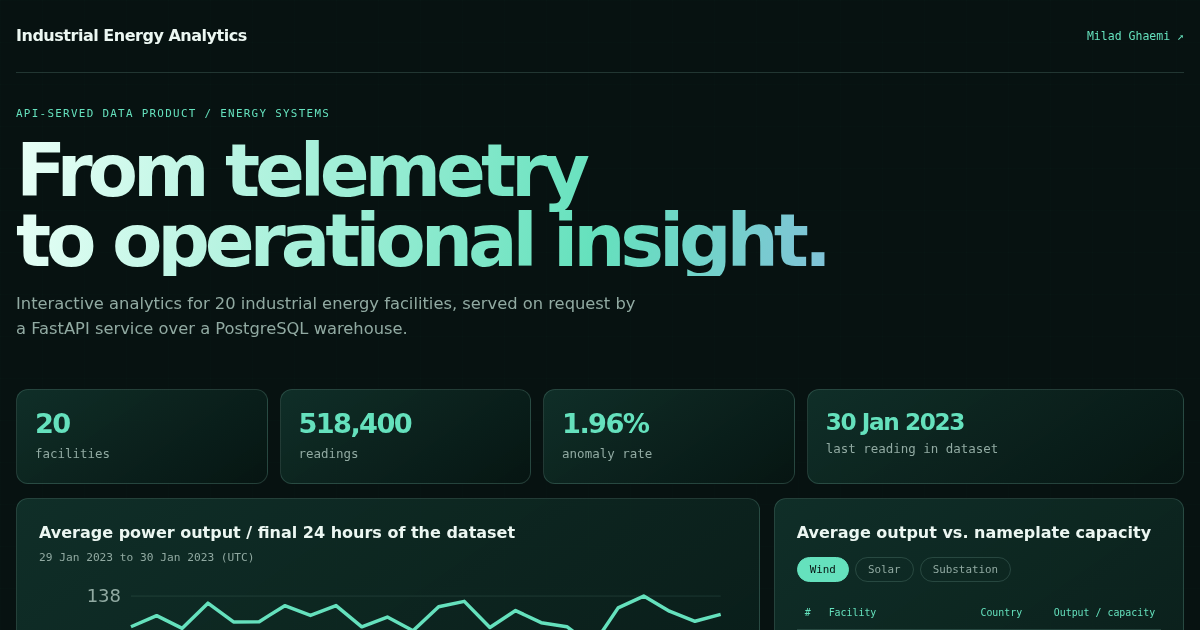
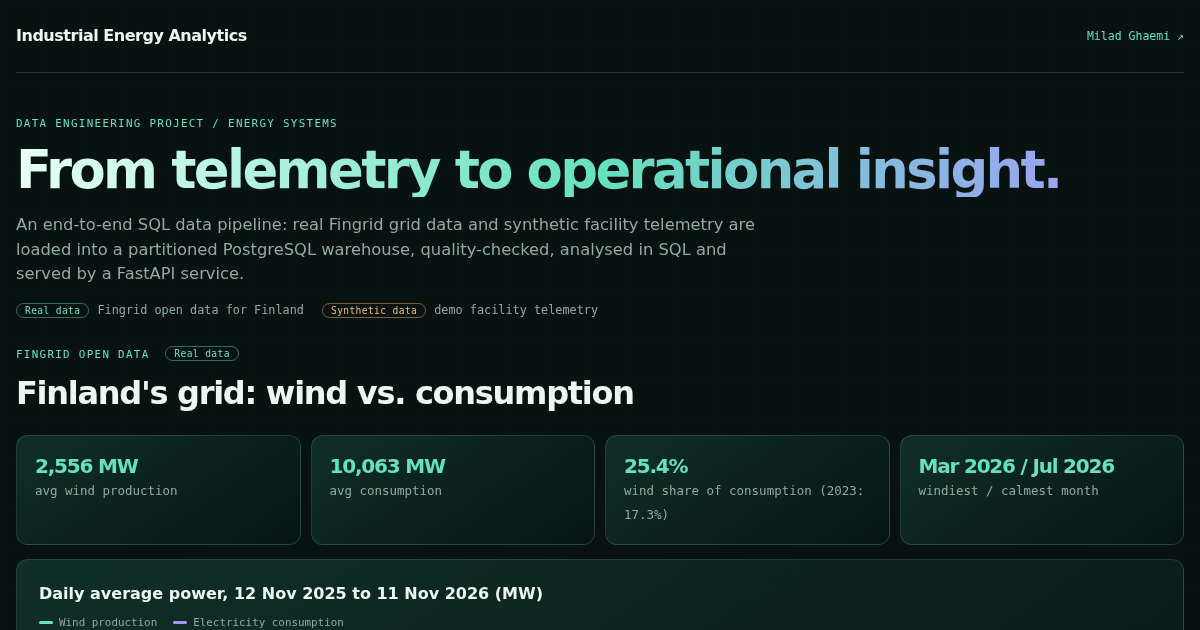
Redesign the dashboard: compact hero, real data first, sticky navigation
- Compact hero with a one-line project summary and a real/synthetic legend,
  so the first screen shows real Fingrid KPIs.
- New order: real Fingrid grid data, pipeline overview, synthetic warehouse
  demo (with its own data note and API status), anomalies, validation.
- Real / synthetic source badges on every section; sticky section menu.
- Footer credits Fingrid Open Data; Open Graph image regenerated.

diff --git a/docs/index.html b/docs/index.html
@@ -13,52 +13,33 @@
   <meta property="og:image" content="https://miladgk.github.io/industrial-energy-sql-pipeline/assets/og-image.png">
   <meta property="og:image:width" content="1200">
   <meta property="og:image:height" content="630">
-  <meta property="og:image:alt" content="Industrial Energy Analytics dashboard: KPIs, power output trend and facility table">
+  <meta property="og:image:alt" content="Industrial Energy Analytics: SQL data pipeline dashboard with real Fingrid grid data for Finland">
   <meta name="twitter:card" content="summary_large_image">
   <link rel="icon" type="image/svg+xml" href="assets/favicon.svg">
   <style>
     :root{--bg:#071211;--surface:#102a25;--surface-2:#0b1d1a;--ink:#ecf7f2;--muted:#91aaa2;--line:rgba(147,201,187,.2);--accent:#65e1bd;--warn:#f4bd73;--sans:system-ui,-apple-system,BlinkMacSystemFont,"Segoe UI",sans-serif;--mono:"DM Mono",ui-monospace,monospace}
-    *{box-sizing:border-box}[hidden]{display:none!important}body{margin:0;background:var(--bg);color:var(--ink);font-family:var(--sans);line-height:1.5}body:before{content:"";position:fixed;inset:0;pointer-events:none;opacity:.35;background-image:linear-gradient(rgba(101,225,189,.04) 1px,transparent 1px),linear-gradient(90deg,rgba(101,225,189,.04) 1px,transparent 1px);background-size:42px 42px}.shell{width:min(1180px,calc(100% - 32px));margin:auto;position:relative}.topbar{display:flex;justify-content:space-between;align-items:center;padding:24px 0;border-bottom:1px solid var(--line)}.brand{font-weight:800;letter-spacing:-.03em}.back{color:var(--accent);font:500 .72rem var(--mono);text-decoration:none}.eyebrow{color:var(--accent);font:500 .68rem var(--mono);letter-spacing:.12em;text-transform:uppercase}.hero{padding:72px 0 42px}.hero h1{font-size:clamp(2.8rem,7vw,6.2rem);line-height:.95;letter-spacing:-.07em;margin:16px 0;background:linear-gradient(100deg,#e9fff7,var(--accent),#a994ff);-webkit-background-clip:text;background-clip:text;color:transparent}.hero p{max-width:620px;color:var(--muted);font-size:1.02rem}.status{display:inline-flex;align-items:center;gap:8px;color:var(--muted);font:500 .7rem var(--mono)}.dot{width:7px;height:7px;border-radius:50%;background:var(--accent);box-shadow:0 0 14px var(--accent)}.kpis{display:grid;grid-template-columns:minmax(0,1fr) minmax(0,1fr) minmax(0,1fr) minmax(0,1.5fr);gap:12px;margin:26px 0}.kpi,.panel{border:1px solid var(--line);border-radius:12px;background:linear-gradient(145deg,rgba(18,54,46,.8),rgba(7,22,19,.9))}.kpi{padding:18px}.kpi strong{display:block;color:var(--accent);font-size:1.7rem;letter-spacing:-.06em;line-height:1.2}.kpi span{color:var(--muted);font:400 .78rem var(--mono)}.kpi:last-child strong{font-size:1.45rem}.grid{display:grid;grid-template-columns:minmax(0,1.45fr) minmax(0,.8fr);gap:14px}.panel{padding:22px}.panel h2{font-size:1rem;margin:0 0 18px}.chart-wrap{height:360px}.chart{width:100%;height:100%}.table-wrap{overflow:auto}.table{width:100%;border-collapse:collapse;font-size:.78rem}.table th,.table td{text-align:left;padding:11px 8px;border-bottom:1px solid var(--line);white-space:nowrap}.table th{color:var(--accent);font:500 .62rem var(--mono)}.table td{color:var(--muted)}.data-note{max-width:680px;margin:10px 0 0;color:var(--muted);font:400 .74rem var(--mono);line-height:1.6}.data-note b{color:var(--warn);font-weight:500}.panel-sub{margin:-12px 0 16px;color:var(--muted);font:400 .7rem var(--mono)}.type-tabs{display:flex;gap:6px;margin:-6px 0 14px;flex-wrap:wrap}.type-tab{font:500 .68rem var(--mono);color:var(--muted);background:transparent;border:1px solid var(--line);border-radius:999px;padding:5px 12px;cursor:pointer}.type-tab[aria-pressed="true"]{color:var(--bg);background:var(--accent);border-color:var(--accent)}.type-tab:focus-visible{outline:2px solid var(--accent);outline-offset:2px}.note{margin:12px 0 0;color:var(--muted);font:400 .66rem var(--mono);line-height:1.55}code{font:400 .86em var(--mono);color:var(--ink);overflow-wrap:anywhere}.section-head{margin:56px 0 18px}.section-head h2{font-size:clamp(1.4rem,3vw,2rem);letter-spacing:-.04em;margin:8px 0 6px}.section-head p{color:var(--muted);max-width:700px;margin:0;font-size:.92rem}.mini-kpis{display:grid;grid-template-columns:repeat(4,minmax(0,1fr));gap:10px;margin:0 0 14px}.mini-kpis .kpi strong{font-size:1.25rem}.legend{display:flex;gap:16px;flex-wrap:wrap;margin:-8px 0 12px;color:var(--muted);font:400 .68rem var(--mono)}.legend i{display:inline-block;width:14px;height:3px;border-radius:2px;margin-right:6px;vertical-align:middle}.wide{margin-top:14px}.pipeline{display:grid;grid-template-columns:repeat(7,minmax(0,1fr));gap:10px;counter-reset:step}.step{position:relative;border:1px solid var(--line);border-radius:12px;padding:14px 12px;background:linear-gradient(145deg,rgba(18,54,46,.8),rgba(7,22,19,.9))}.step b{display:block;font-size:.82rem;margin-bottom:6px}.step span{display:block;color:var(--muted);font:400 .66rem var(--mono);line-height:1.5}.step:before{counter-increment:step;content:"0" counter(step);display:block;color:var(--accent);font:500 .62rem var(--mono);margin-bottom:6px}.step:not(:last-child):after{content:"→";position:absolute;right:-10px;top:50%;transform:translateY(-50%);color:var(--accent);font-size:.8rem}.links{display:flex;gap:18px;flex-wrap:wrap;margin-top:16px}.links a{color:var(--accent);font:500 .74rem var(--mono);text-decoration:none}.links a:hover{text-decoration:underline}.tag{display:inline-block;padding:1px 7px;border-radius:999px;font:500 .6rem var(--mono);border:1px solid var(--line)}.tag.inj{color:var(--warn);border-color:rgba(244,189,115,.4)}@media(max-width:1000px){.pipeline{grid-template-columns:repeat(2,minmax(0,1fr))}.step:not(:last-child):after{display:none}}@media(max-width:800px){.mini-kpis{grid-template-columns:repeat(2,minmax(0,1fr))}}.error{color:var(--warn);font:500 .76rem var(--mono);min-height:1.2em}.footer{padding:48px 0;color:var(--muted);font:400 .68rem var(--mono)}@media(max-width:800px){.kpis{grid-template-columns:repeat(2,1fr)}.grid{grid-template-columns:minmax(0,1fr)}}@media(max-width:520px){.hero{padding-top:46px}.kpis{grid-template-columns:1fr}.kpi{padding:13px}.kpi strong{font-size:1.35rem}.kpi:last-child strong{font-size:1.3rem}}@media(max-width:600px){.shell{width:calc(100% - 28px)}.topbar{padding:17px 0;gap:14px}.brand{font-size:.9rem}.back{font-size:.6rem;white-space:nowrap}.hero{padding:48px 0 28px}.hero h1{font-size:clamp(2.35rem,13vw,4rem)}.hero p{font-size:.9rem}.kpis{gap:8px}.kpi{padding:13px 11px}.kpi strong{font-size:1.2rem}.kpi span{font-size:.66rem}.panel{padding:15px}.panel h2{font-size:.86rem}.chart-wrap{height:260px}.footer{padding:34px 0;font-size:.58rem}}
+    *{box-sizing:border-box}[hidden]{display:none!important}body{margin:0;background:var(--bg);color:var(--ink);font-family:var(--sans);line-height:1.5}body:before{content:"";position:fixed;inset:0;pointer-events:none;opacity:.35;background-image:linear-gradient(rgba(101,225,189,.04) 1px,transparent 1px),linear-gradient(90deg,rgba(101,225,189,.04) 1px,transparent 1px);background-size:42px 42px}.shell{width:min(1180px,calc(100% - 32px));margin:auto;position:relative}.topbar{display:flex;justify-content:space-between;align-items:center;padding:24px 0;border-bottom:1px solid var(--line)}.brand{font-weight:800;letter-spacing:-.03em}.back{color:var(--accent);font:500 .72rem var(--mono);text-decoration:none}.eyebrow{color:var(--accent);font:500 .68rem var(--mono);letter-spacing:.12em;text-transform:uppercase}.hero{padding:44px 0 6px}.hero h1{font-size:clamp(2.1rem,4.6vw,3.7rem);line-height:1;letter-spacing:-.05em;margin:14px 0;background:linear-gradient(100deg,#e9fff7,var(--accent),#a994ff);-webkit-background-clip:text;background-clip:text;color:transparent}.hero p{max-width:760px;color:var(--muted);font-size:1.02rem}.status{display:inline-flex;align-items:center;gap:8px;color:var(--muted);font:500 .7rem var(--mono)}.dot{width:7px;height:7px;border-radius:50%;background:var(--accent);box-shadow:0 0 14px var(--accent)}.kpis{display:grid;grid-template-columns:minmax(0,1fr) minmax(0,1fr) minmax(0,1fr) minmax(0,1.5fr);gap:12px;margin:26px 0}.kpi,.panel{border:1px solid var(--line);border-radius:12px;background:linear-gradient(145deg,rgba(18,54,46,.8),rgba(7,22,19,.9))}.kpi{padding:18px}.kpi strong{display:block;color:var(--accent);font-size:1.7rem;letter-spacing:-.06em;line-height:1.2}.kpi span{color:var(--muted);font:400 .78rem var(--mono)}.kpi:last-child strong{font-size:1.45rem}.grid{display:grid;grid-template-columns:minmax(0,1.45fr) minmax(0,.8fr);gap:14px}.panel{padding:22px}.panel h2{font-size:1rem;margin:0 0 18px}.chart-wrap{height:360px}.chart{width:100%;height:100%}.table-wrap{overflow:auto}.table{width:100%;border-collapse:collapse;font-size:.78rem}.table th,.table td{text-align:left;padding:11px 8px;border-bottom:1px solid var(--line);white-space:nowrap}.table th{color:var(--accent);font:500 .62rem var(--mono)}.table td{color:var(--muted)}.data-note{max-width:680px;margin:10px 0 0;color:var(--muted);font:400 .74rem var(--mono);line-height:1.6}.data-note b{color:var(--warn);font-weight:500}.panel-sub{margin:-12px 0 16px;color:var(--muted);font:400 .7rem var(--mono)}.type-tabs{display:flex;gap:6px;margin:-6px 0 14px;flex-wrap:wrap}.type-tab{font:500 .68rem var(--mono);color:var(--muted);background:transparent;border:1px solid var(--line);border-radius:999px;padding:5px 12px;cursor:pointer}.type-tab[aria-pressed="true"]{color:var(--bg);background:var(--accent);border-color:var(--accent)}.type-tab:focus-visible{outline:2px solid var(--accent);outline-offset:2px}.note{margin:12px 0 0;color:var(--muted);font:400 .66rem var(--mono);line-height:1.55}code{font:400 .86em var(--mono);color:var(--ink);overflow-wrap:anywhere}.section-head{margin:56px 0 18px}#grid .section-head{margin-top:34px}.section-head h2{font-size:clamp(1.4rem,3vw,2rem);letter-spacing:-.04em;margin:8px 0 6px}.section-head p{color:var(--muted);max-width:700px;margin:0;font-size:.92rem}.mini-kpis{display:grid;grid-template-columns:repeat(4,minmax(0,1fr));gap:10px;margin:0 0 14px}.mini-kpis .kpi strong{font-size:1.25rem}.legend{display:flex;gap:16px;flex-wrap:wrap;margin:-8px 0 12px;color:var(--muted);font:400 .68rem var(--mono)}.legend i{display:inline-block;width:14px;height:3px;border-radius:2px;margin-right:6px;vertical-align:middle}.wide{margin-top:14px}.pipeline{display:grid;grid-template-columns:repeat(7,minmax(0,1fr));gap:10px;counter-reset:step}.step{position:relative;border:1px solid var(--line);border-radius:12px;padding:14px 12px;background:linear-gradient(145deg,rgba(18,54,46,.8),rgba(7,22,19,.9))}.step b{display:block;font-size:.82rem;margin-bottom:6px}.step span{display:block;color:var(--muted);font:400 .66rem var(--mono);line-height:1.5}.step:before{counter-increment:step;content:"0" counter(step);display:block;color:var(--accent);font:500 .62rem var(--mono);margin-bottom:6px}.step:not(:last-child):after{content:"→";position:absolute;right:-10px;top:50%;transform:translateY(-50%);color:var(--accent);font-size:.8rem}.links{display:flex;gap:18px;flex-wrap:wrap;margin-top:16px}.links a{color:var(--accent);font:500 .74rem var(--mono);text-decoration:none}.links a:hover{text-decoration:underline}.tag{display:inline-block;padding:1px 7px;border-radius:999px;font:500 .6rem var(--mono);border:1px solid var(--line)}.tag.inj{color:var(--warn);border-color:rgba(244,189,115,.4)}@media(max-width:1000px){.pipeline{grid-template-columns:repeat(2,minmax(0,1fr))}.step:not(:last-child):after{display:none}}@media(max-width:800px){.mini-kpis{grid-template-columns:repeat(2,minmax(0,1fr))}}.subnav{position:sticky;top:0;z-index:20;background:rgba(7,18,17,.88);backdrop-filter:blur(10px);-webkit-backdrop-filter:blur(10px);border-bottom:1px solid var(--line)}.subnav-inner{display:flex;gap:22px;overflow-x:auto;scrollbar-width:none;padding:12px 0}.subnav-inner::-webkit-scrollbar{display:none}.subnav a{color:var(--muted);font:500 .72rem var(--mono);text-decoration:none;white-space:nowrap}.subnav a:hover,.subnav a:focus-visible{color:var(--accent)}main section[id]{scroll-margin-top:64px}.src{display:inline-block;margin-left:8px;padding:1px 8px;border-radius:999px;font:500 .6rem var(--mono);letter-spacing:.04em;text-transform:none;vertical-align:1px}.src-real{color:var(--accent);border:1px solid rgba(101,225,189,.45)}.src-syn{color:var(--warn);border:1px solid rgba(244,189,115,.45)}.legend-chips{display:flex;flex-wrap:wrap;align-items:center;gap:6px 8px;margin-top:14px;color:var(--muted);font:400 .74rem var(--mono)}.legend-chips .src{margin-left:0}.legend-chips .src-syn{margin-left:10px}#demo .section-head .status{margin-top:12px}.error{color:var(--warn);font:500 .76rem var(--mono);min-height:1.2em}.footer{padding:48px 0;color:var(--muted);font:400 .68rem var(--mono)}@media(max-width:800px){.kpis{grid-template-columns:repeat(2,1fr)}.grid{grid-template-columns:minmax(0,1fr)}}@media(max-width:520px){.hero{padding-top:34px}.kpis{grid-template-columns:1fr}.kpi{padding:13px}.kpi strong{font-size:1.35rem}.kpi:last-child strong{font-size:1.3rem}}@media(max-width:600px){.shell{width:calc(100% - 28px)}.topbar{padding:17px 0;gap:14px}.brand{font-size:.9rem}.back{font-size:.6rem;white-space:nowrap}.hero{padding:30px 0 4px}.hero h1{font-size:clamp(1.9rem,8.6vw,2.6rem)}.hero p{font-size:.9rem}.kpis{gap:8px}.kpi{padding:13px 11px}.kpi strong{font-size:1.2rem}.kpi span{font-size:.66rem}.panel{padding:15px}.panel h2{font-size:.86rem}.chart-wrap{height:260px}.footer{padding:34px 0;font-size:.58rem}}
   </style>
 </head>
 <body>
   <header class="shell topbar"><strong class="brand">Industrial Energy Analytics</strong><a class="back" href="https://miladgk.github.io/" target="_blank" rel="noopener noreferrer">Milad Ghaemi ↗</a></header>
+  <nav class="subnav" aria-label="Sections"><div class="shell subnav-inner"><a href="#grid">Real grid</a><a href="#pipeline">Pipeline</a><a href="#demo">Warehouse demo</a><a href="#anomaly-detection">Anomalies</a><a href="#validation">Validation</a></div></nav>
   <main class="shell">
     <section class="hero">
-      <div class="eyebrow">API-SERVED DATA PRODUCT / ENERGY SYSTEMS</div>
-      <h1>From telemetry<br>to operational insight.</h1>
-      <p>Interactive analytics for 20 industrial energy facilities, served on request by a FastAPI service over a PostgreSQL warehouse.</p>
-      <p class="data-note"><b>Data note:</b> facility telemetry is <b>synthetic</b> (reproducible generator, seed 42) and covers a fixed historical window; it is not a real-time feed. The pipeline also ingests real Fingrid open grid data for Finland (2023), which is not shown on this page.</p>
-      <div class="status"><span class="dot"></span><span id="status">Connecting to the API...</span></div>
+      <div class="eyebrow">DATA ENGINEERING PROJECT / ENERGY SYSTEMS</div>
+      <h1>From telemetry to operational insight.</h1>
+      <p>An end-to-end SQL data pipeline: real Fingrid grid data and synthetic facility telemetry are loaded into a partitioned PostgreSQL warehouse, quality-checked, analysed in SQL and served by a FastAPI service.</p>
+      <div class="legend-chips"><span class="src src-real">Real data</span> Fingrid open data for Finland <span class="src src-syn">Synthetic data</span> demo facility telemetry</div>
     </section>
-    <section class="kpis">
-      <div class="kpi"><strong id="facility-count">-</strong><span>facilities</span></div>
-      <div class="kpi"><strong id="reading-count">-</strong><span>readings</span></div>
-      <div class="kpi"><strong id="anomaly-rate">-</strong><span>anomaly rate</span></div>
-      <div class="kpi"><strong id="latest-reading">-</strong><span>last reading in dataset</span></div>
-    </section>
-    <div class="grid">
-      <section class="panel"><h2>Average power output / final 24 hours of the dataset</h2><p class="panel-sub" id="trend-window">Loading data window...</p><div class="chart-wrap"><svg id="trend-chart" class="chart" viewBox="0 0 800 320" role="img" aria-label="Average power output trend"></svg></div><p id="trend-error" class="error"></p></section>
-      <section class="panel"><h2>Average output vs. nameplate capacity</h2><div class="type-tabs" role="group" aria-label="Facility type"><button class="type-tab" type="button" data-type="wind" aria-pressed="true">Wind</button><button class="type-tab" type="button" data-type="solar" aria-pressed="false">Solar</button><button class="type-tab" type="button" data-type="substation" aria-pressed="false">Substation</button></div><div class="table-wrap"><table class="table"><thead><tr><th>#</th><th>Facility</th><th>Country</th><th>Output / capacity</th></tr></thead><tbody id="ranking"></tbody></table></div><p class="note">Ranked within each facility type, so unlike assets are not compared. In this synthetic dataset, power output is drawn uniformly between zero and nameplate capacity, so every facility averages close to 50% and the differences are small by construction.</p><p id="ranking-error" class="error"></p></section>
-    </div>
-    <section aria-labelledby="grid-title">
-      <div class="section-head"><div class="eyebrow">REAL DATA / FINGRID OPEN DATA</div><h2 id="grid-title">Finland's grid: wind vs. consumption</h2><p id="grid-desc">Real hourly data from Fingrid, the Finnish transmission system operator (dataset 75: wind power production, dataset 124: electricity consumption), averaged per day.</p></div>
+
+    <section id="grid" aria-labelledby="grid-title">
+      <div class="section-head"><div class="eyebrow">FINGRID OPEN DATA <span class="src src-real">Real data</span></div><h2 id="grid-title">Finland's grid: wind vs. consumption</h2><p id="grid-desc">Real hourly data from Fingrid, the Finnish transmission system operator (dataset 75: wind power production, dataset 124: electricity consumption), averaged per day.</p></div>
       <div class="type-tabs" id="period-tabs" role="group" aria-label="Time period" hidden><button class="type-tab" type="button" data-period="recent" aria-pressed="true">Last 12 months</button><button class="type-tab" type="button" data-period="2023" aria-pressed="false">2023</button></div>
       <div class="mini-kpis" id="grid-kpis"></div>
       <section class="panel"><h2 id="grid-chart-title">Daily average power (MW)</h2><div class="legend"><span><i style="background:#65e1bd"></i>Wind production</span><span><i style="background:#a994ff"></i>Electricity consumption</span></div><div class="chart-wrap"><svg id="grid-chart" class="chart" viewBox="0 0 800 360" role="img" aria-label="Daily average wind production and electricity consumption in Finland"></svg></div><p id="grid-error" class="error"></p></section>
     </section>
 
-    <section aria-labelledby="val-title">
-      <div class="section-head"><div class="eyebrow">VALIDATION / REAL VS. SYNTHETIC</div><h2 id="val-title">Does the synthetic generator behave like real wind?</h2><p>Daily wind output from the synthetic generator compared with real Fingrid wind production, both standardized as z-scores. Computed by <code>sql/analysis/08_real_vs_synthetic_comparison.sql</code> on an earlier full-year synthetic run (the dataset served above now covers one month).</p></div>
-      <section class="panel"><h2 id="val-stats">Pearson correlation</h2><div class="legend"><span><i style="background:#65e1bd"></i>Real wind (z-score)</span><span><i style="background:#f4bd73"></i>Synthetic wind (z-score)</span></div><div class="chart-wrap"><svg id="val-chart" class="chart" viewBox="0 0 800 360" role="img" aria-label="Real and synthetic daily wind z-scores, 2023"></svg></div><p class="note" id="val-note"></p><p id="val-error" class="error"></p></section>
-    </section>
-
-    <section aria-labelledby="anom-title">
-      <div class="section-head"><div class="eyebrow">ANOMALY DETECTION / Z-SCORE SQL</div><h2 id="anom-title">Strongest detected anomalies</h2><p>The generator injects sensor-fault values (zero, or three times the sensor's normal maximum) into about 2% of readings. A SQL query computes each sensor's monthly mean and standard deviation from the normal (non-injected) readings, then flags every reading more than 3 standard deviations away (z &gt; 3). The <span class="tag inj">injected</span> tag marks detections that match an injected value.</p></div>
-      <section class="panel"><h2>Strongest anomaly per facility type and sensor</h2><div class="table-wrap"><table class="table"><thead><tr><th>Time (UTC)</th><th>Facility</th><th>Sensor</th><th>Value</th><th>z-score</th><th>Label</th></tr></thead><tbody id="anomalies"></tbody></table></div><p class="note">From the 300 highest z-scores per facility type returned by <code>/api/anomalies</code>. z-scores depend on each sensor's normal spread, so they are comparable within a sensor, not across sensors.</p><p id="anom-error" class="error"></p></section>
-    </section>
-
-    <section aria-labelledby="how-title">
+    <section id="pipeline" aria-labelledby="how-title">
       <div class="section-head"><div class="eyebrow">HOW IT WORKS / PIPELINE</div><h2 id="how-title">From raw files to this page</h2></div>
       <div class="pipeline">
         <div class="step"><b>Sources</b><span>Synthetic telemetry (20 facilities, 3 sensors each, 5-min) and the Fingrid Open Data API</span></div>
@@ -71,8 +52,33 @@
       </div>
       <div class="links"><a href="https://github.com/miladgk/industrial-energy-sql-pipeline" target="_blank" rel="noopener noreferrer">Source code on GitHub ↗</a><a href="https://industrial-energy-api.onrender.com/docs" target="_blank" rel="noopener noreferrer">Interactive API docs ↗</a></div>
     </section>
+
+    <section id="demo" aria-labelledby="demo-title">
+      <div class="section-head"><div class="eyebrow">WAREHOUSE DEMO / SERVED BY THE API <span class="src src-syn">Synthetic data</span></div><h2 id="demo-title">Facility telemetry warehouse</h2><p>Twenty wind, solar and substation sites with three sensors each, at 5-minute resolution. The telemetry is <b>synthetic</b> (reproducible generator, seed 42) and covers January 2023; it is a fixed demo dataset, not a real-time feed. Every value below is queried from the FastAPI service when the page loads.</p>
+        <div class="status"><span class="dot"></span><span id="status">Connecting to the API...</span></div></div>
+    <section class="kpis">
+      <div class="kpi"><strong id="facility-count">-</strong><span>facilities</span></div>
+      <div class="kpi"><strong id="reading-count">-</strong><span>readings</span></div>
+      <div class="kpi"><strong id="anomaly-rate">-</strong><span>anomaly rate</span></div>
+      <div class="kpi"><strong id="latest-reading">-</strong><span>last reading in dataset</span></div>
+    </section>
+    <div class="grid">
+      <section class="panel"><h2>Average power output / final 24 hours of the dataset</h2><p class="panel-sub" id="trend-window">Loading data window...</p><div class="chart-wrap"><svg id="trend-chart" class="chart" viewBox="0 0 800 320" role="img" aria-label="Average power output trend"></svg></div><p id="trend-error" class="error"></p></section>
+      <section class="panel"><h2>Average output vs. nameplate capacity</h2><div class="type-tabs" role="group" aria-label="Facility type"><button class="type-tab" type="button" data-type="wind" aria-pressed="true">Wind</button><button class="type-tab" type="button" data-type="solar" aria-pressed="false">Solar</button><button class="type-tab" type="button" data-type="substation" aria-pressed="false">Substation</button></div><div class="table-wrap"><table class="table"><thead><tr><th>#</th><th>Facility</th><th>Country</th><th>Output / capacity</th></tr></thead><tbody id="ranking"></tbody></table></div><p class="note">Ranked within each facility type, so unlike assets are not compared. In this synthetic dataset, power output is drawn uniformly between zero and nameplate capacity, so every facility averages close to 50% and the differences are small by construction.</p><p id="ranking-error" class="error"></p></section>
+    </div>
+    </section>
+
+    <section id="anomaly-detection" aria-labelledby="anom-title">
+      <div class="section-head"><div class="eyebrow">ANOMALY DETECTION / Z-SCORE SQL <span class="src src-syn">Synthetic data</span></div><h2 id="anom-title">Strongest detected anomalies</h2><p>The generator injects sensor-fault values (zero, or three times the sensor's normal maximum) into about 2% of readings. A SQL query computes each sensor's monthly mean and standard deviation from the normal (non-injected) readings, then flags every reading more than 3 standard deviations away (z &gt; 3). The <span class="tag inj">injected</span> tag marks detections that match an injected value.</p></div>
+      <section class="panel"><h2>Strongest anomaly per facility type and sensor</h2><div class="table-wrap"><table class="table"><thead><tr><th>Time (UTC)</th><th>Facility</th><th>Sensor</th><th>Value</th><th>z-score</th><th>Label</th></tr></thead><tbody id="anomalies"></tbody></table></div><p class="note">From the 300 highest z-scores per facility type returned by <code>/api/anomalies</code>. z-scores depend on each sensor's normal spread, so they are comparable within a sensor, not across sensors.</p><p id="anom-error" class="error"></p></section>
+    </section>
+
+    <section id="validation" aria-labelledby="val-title">
+      <div class="section-head"><div class="eyebrow">VALIDATION <span class="src src-real">Real</span><span class="src src-syn">Synthetic</span></div><h2 id="val-title">Does the synthetic generator behave like real wind?</h2><p>Daily wind output from the synthetic generator compared with real Fingrid wind production, both standardized as z-scores. Computed by <code>sql/analysis/08_real_vs_synthetic_comparison.sql</code> on an earlier full-year synthetic run (the demo dataset above covers one month).</p></div>
+      <section class="panel"><h2 id="val-stats">Pearson correlation</h2><div class="legend"><span><i style="background:#65e1bd"></i>Real wind (z-score)</span><span><i style="background:#f4bd73"></i>Synthetic wind (z-score)</span></div><div class="chart-wrap"><svg id="val-chart" class="chart" viewBox="0 0 800 360" role="img" aria-label="Real and synthetic daily wind z-scores, 2023"></svg></div><p class="note" id="val-note"></p><p id="val-error" class="error"></p></section>
+    </section>
   </main>
-  <footer class="shell footer">Values are queried from the API when the page loads; the underlying dataset is a fixed snapshot · Industrial Energy SQL Pipeline</footer>
+  <footer class="shell footer">Real grid data: Fingrid Open Data (CC BY 4.0) · Synthetic facility data: reproducible generator · Industrial Energy SQL Pipeline</footer>
   <script>
     const API_BASE_URL = "https://industrial-energy-api.onrender.com";
     const $ = id => document.getElementById(id);
